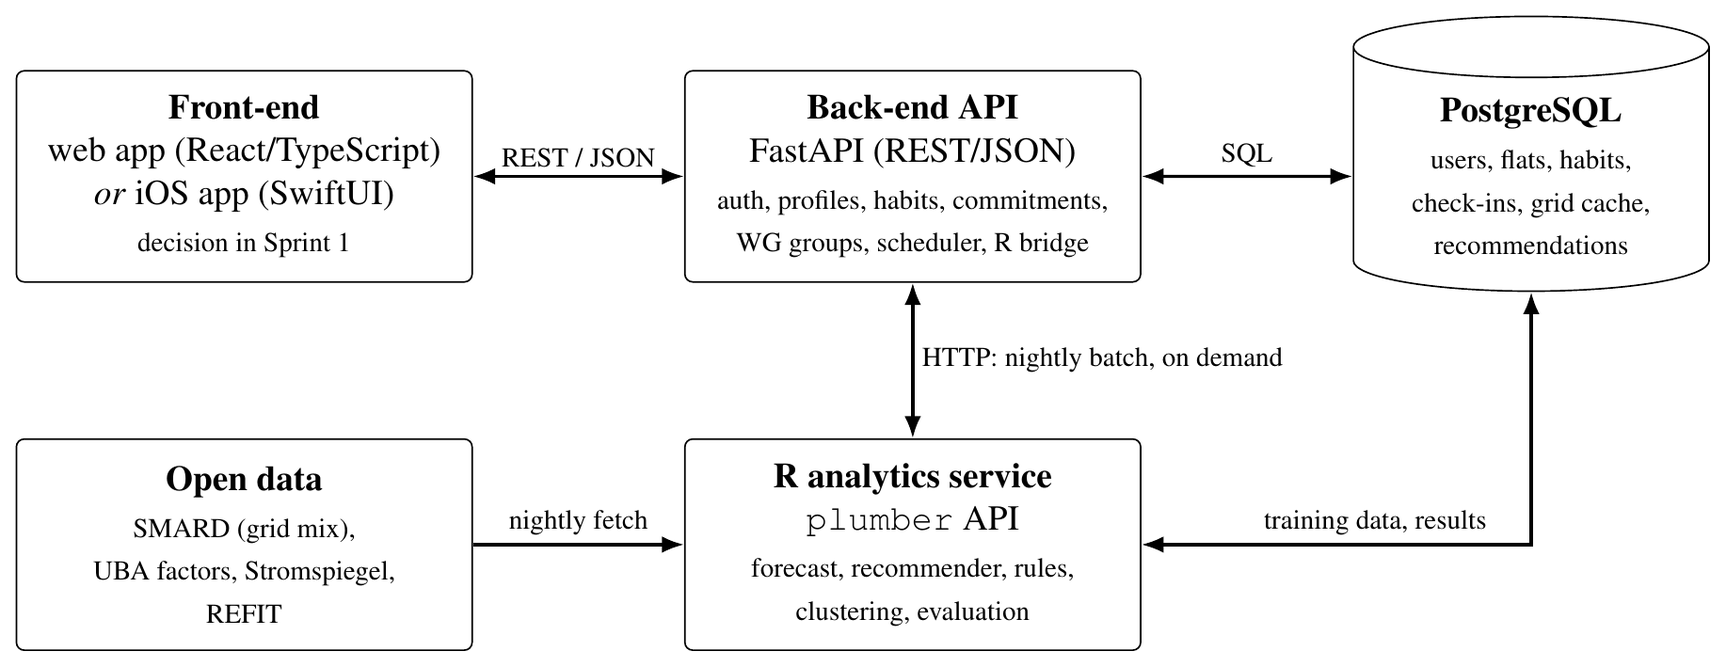
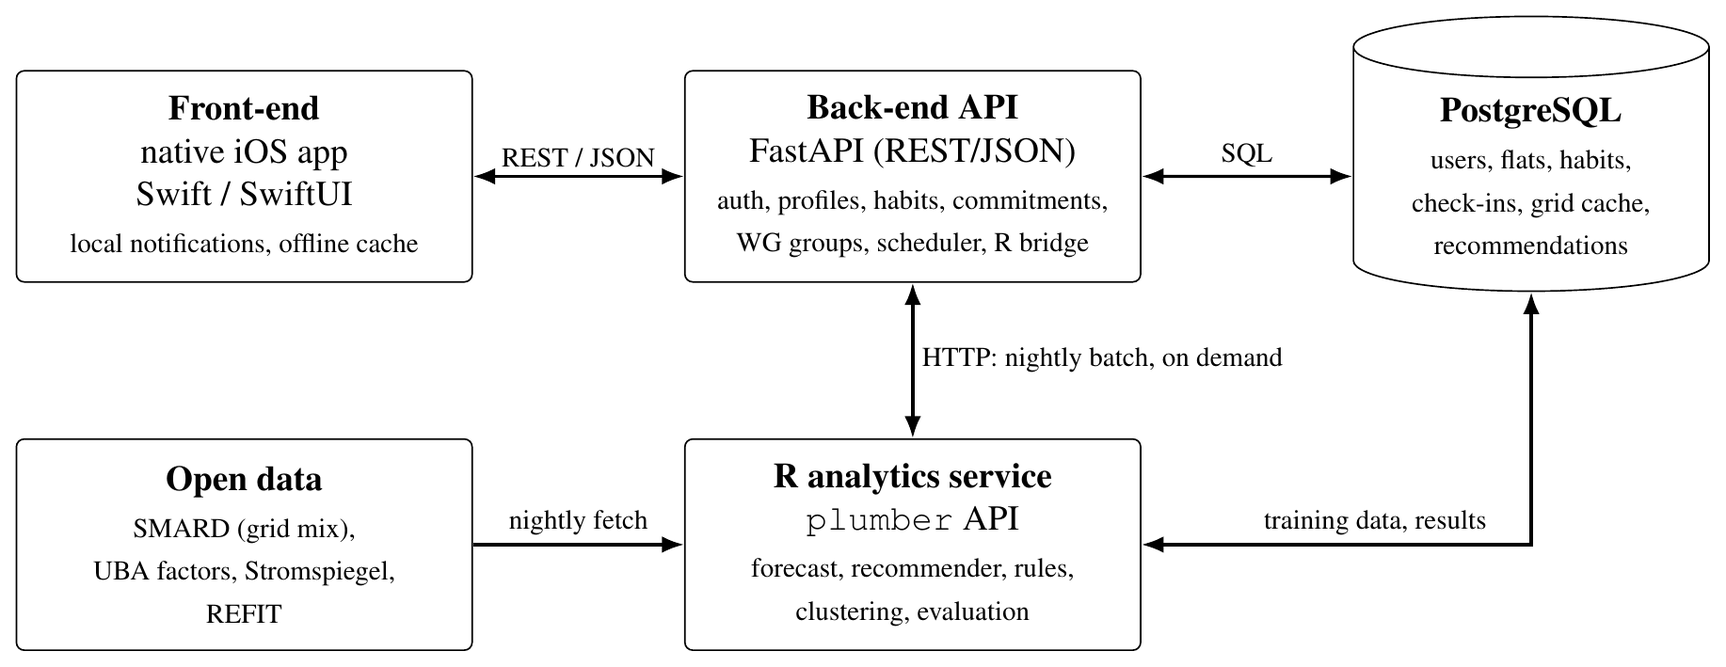
proposal updated

Changed region(s): [[0.0311, 0.1551, 0.2486, 0.3103], [0.0311, 0.3413, 0.2486, 0.4034]]

diff --git a/documentation/project-proposal/index.tex b/documentation/project-proposal/index.tex
@@ -6,10 +6,8 @@
 %%  Compile with pdflatex (IEEEtran class, included in Overleaf / TeX Live).
 %%  The diagrams are PNGs in figures/; edit the matching figures/*.tex
 %%  source and run ./build-figures.sh to re-render them.
-%%  Everything printed in RED is a placeholder:
-%%     \ph{...}                 short placeholders (names, matriculation numbers, links)
-%%     \begin{phsection}...     the whole section reserved for the ML / data-mining models
-%%  Search the file for "\ph{" and "phsection" to find them all.
+%%  \ph{...} prints a RED placeholder for anything still to be filled in
+%%  (none at the moment). Search the file for "\ph{" to find them.
 %% =====================================================================
 \documentclass[conference]{IEEEtran}
 \usepackage[utf8]{inputenc}
@@ -24,13 +22,6 @@
 
 % ---------- placeholders -------------------------------------------------
 \newcommand{\ph}[1]{\textcolor{red}{\textbf{[#1]}}}
-% A whole placeholder section: red rules above and below, dark-red text.
-% (Breakable across columns, unlike a framed box.)
-\newenvironment{phsection}[1]{%
-  \par\noindent\textcolor{red}{\rule{\columnwidth}{0.8pt}}\par\smallskip
-  \noindent\textbf{\textcolor{red}{PLACEHOLDER -- #1}}\par\smallskip
-  \color{red!55!black}}{%
-  \par\smallskip\noindent\textcolor{red}{\rule{\columnwidth}{0.8pt}}\par}
 % ---------- small helpers ------------------------------------------------
 \newcommand{\COtwo}{CO$_2$}
 \newcommand{\pkg}[1]{\texttt{#1}}
@@ -56,7 +47,7 @@ Supervisor: Prof.\ Dr.\ Christina Andersson}
 \maketitle
 
 \begin{abstract}
-This proposal outlines the design and development plan for \emph{Home Energy Coach}, a Personalized Green Habit Recommender developed as part of the High Integrity Systems Project at Frankfurt University of Applied Sciences (WS~2026/27). The application targets students and renters in shared flats (WGs), who cannot change their building's insulation or heating system but can change their daily habits. Users complete a short energy profile, receive a ranked feed of habits that fit their flat and schedule, commit to one small goal at a time and are prompted at the right moment. The signature feature is the \emph{Green Hours planner}: using live generation data of the German electricity market from the Bundesnetzagentur's SMARD platform, it tells each user the lowest-\COtwo{} hours for laundry, dishwasher and charging, fitted to the hours they are actually at home. A FastAPI back-end coordinates the application logic and delegates all data analysis -- the hourly \COtwo{} forecast, recommendation ranking, association-rule mining, user clustering and the evaluation of nudges -- to an R analytics service exposed through the \pkg{plumber} package. User data is persisted in PostgreSQL and the whole system is containerized with Docker. In line with the course's green software requirement, the energy and resource consumption of the application itself is measured from the first prototype on, reduced in every sprint and shown to users in the app. The project follows Scrum over five sprints with rotating Scrum Master and Product Owner roles, and all progress is tracked in Jira.
+This proposal outlines the design and development plan for \emph{Home Energy Coach}, a Personalized Green Habit Recommender developed as part of the High Integrity Systems Project at Frankfurt University of Applied Sciences (WS~2026/27). The application targets students and renters in shared flats (WGs), who cannot change their building's insulation or heating system but can change their daily habits. Users complete a short energy profile, receive a ranked feed of habits that fit their flat and schedule, commit to one small goal at a time and are prompted at the right moment. The signature feature is the \emph{Green Hours planner}: using live generation data of the German electricity market from the Bundesnetzagentur's SMARD platform, it tells each user the lowest-\COtwo{} hours for laundry, dishwasher and charging, fitted to the hours they are actually at home. The native iOS app (SwiftUI) talks to a FastAPI back-end, which coordinates the application logic and delegates all data analysis -- the hourly \COtwo{} forecast, recommendation ranking, association-rule mining, user clustering and the evaluation of nudges -- to an R analytics service exposed through the \pkg{plumber} package. User data is persisted in PostgreSQL and the server side is containerised with Docker. In line with the course's green software requirement, the energy and resource consumption of the application itself is measured from the first prototype on, reduced in every sprint and shown to users in the app. The project follows Scrum over five sprints with rotating Scrum Master and Product Owner roles, and all progress is tracked in Jira.
 \end{abstract}
 
 \section{Introduction}
@@ -66,11 +57,11 @@ The timing aspect is what makes this project more than a list of tips. The \COtw
 
 Information alone, however, rarely changes behaviour; the gap between good intentions and action is well documented. Home Energy Coach is therefore designed as a habit-building system rather than an information app. It follows the Fogg Behavior Model, in which a behaviour occurs only when motivation, ability and a prompt come together at the same moment~\cite{fogg2009}, and the habit loop of cue, routine and reward. Users commit to one small, concrete goal at a time -- an implementation intention of the form ``when X, I do Y''~\cite{gollwitzer1999} -- are prompted exactly when the green window opens, and see the saved \COtwo{} and their streak immediately afterwards. Behaviour that is repeated in the same context for several weeks becomes automatic~\cite{lally2010}; the app then fades its prompts and proposes the next habit.
 
-This proposal describes the planned development of Home Energy Coach as the team's realisation of the course topic \emph{Personalized Green Habit Recommender}. The system consists of a front-end (web or native iOS, see Section~\ref{sec:frontend}), a FastAPI back-end and an R analytics service that performs all data analysis and data mining tasks and is accessed through the \pkg{plumber} package. Development follows Scrum over five sprints, with all work tracked in Jira and source code managed collaboratively on GitHub. A particular advantage of the chosen domain is that the team itself belongs to the target group, so the app can be piloted on its own developers in the final sprint.
+This proposal describes the planned development of Home Energy Coach as the team's realisation of the course topic \emph{Personalized Green Habit Recommender}. The system consists of a native iOS app built with SwiftUI (Section~\ref{sec:frontend}), a FastAPI back-end and an R analytics service that performs all data analysis and data mining tasks and is accessed through the \pkg{plumber} package. Development follows Scrum over five sprints, with all work tracked in Jira and source code managed collaboratively on GitHub. A particular advantage of the chosen domain is that the team itself belongs to the target group, so the app can be piloted on its own developers in the final sprint.
 
 \subsection{Objectives}
 \begin{enumerate}
-\item Build a platform that recommends personalized home-energy habits to students and renters and prompts them at the right moment, including the greenest hours of the day derived from live German grid data.
+\item Build a platform that recommends personalised home-energy habits to students and renters and prompts them at the right moment, including the greenest hours of the day derived from live German grid data.
 \item Use R~\cite{rcore} for all data analysis and data mining tasks: the hourly \COtwo{} forecast, the recommendation ranking, association rules, clustering and the evaluation of nudges.
 \item Deliver at least eight distinct user interfaces beyond standard CRUD and authentication screens; eleven are planned (Section~\ref{sec:ui}).
 \item Measure the energy and resource consumption of the application itself from the first prototype on, and reduce it in every subsequent sprint.
@@ -116,13 +107,19 @@ The aim of the project is to turn public energy data and a short user profile in
 \item \textbf{The app's own footprint.} An app that nudges people to save energy while wasting energy on its own servers would contradict its purpose. Its consumption has to be measured and reduced as part of the project.
 \end{itemize}
 
+\subsection{Scope}
+\label{sec:scope}
+\textbf{In scope.} A native iOS app with the eleven screens of Section~\ref{sec:ui}; a FastAPI back-end with PostgreSQL; an R analytics service with the pipelines of Section~\ref{sec:ml}; the Green Hours planner for the German electricity grid, based on SMARD data; a catalogue of 22 home-energy habits covering heating, ventilation, hot water, appliances and standby; WG groups, agreements and challenges; the measurement and reduction of the app's own footprint; and a two-week pilot with the team in Sprint~5.
+
+\textbf{Out of scope.} Android and web clients; automatic control of appliances, smart plugs or thermostats; automatic integration of smart meters or utility accounts (meter readings are entered manually); electricity grids outside Germany; other areas of the course topic such as transport, food and shopping habits; tariff switching and payments; and a public App Store release -- the app reaches pilot users through TestFlight only. These limits keep the project within the available 1\,800 team hours; an Android client and smart-plug integration are noted as future work.
+
 \subsection{Example Scenario}
 Lena's laundry illustrates the intended five-week path from awareness to habit. In week~0 the onboarding quiz tells her that her WG's laundry causes roughly 4\,kg \COtwo{} per month. In week~1 she commits to a single small goal: one load in green hours on Saturday. On Saturday at 11:30 the app alerts her that a green window opens from 12:00 to 15:00; she starts the machine at noon and sees $-0.4$\,kg \COtwo{}, a streak of one and her WG at rank~2 in the challenge. In weeks 2--4 the goal grows and her flatmates join. From week~5 she runs the machine in green hours without being asked; the prompts fade and the app proposes the next habit, lowering the thermostat by 1\,\textdegree C. All figures are illustrative; the real ones come from SMARD and the user's profile.
 
 \section{Methodology}
 
 \subsection{Development Process}
-The project follows the Scrum framework and is divided into the five sprints prescribed by the course: four two-week sprints and a final three-week sprint, starting on 26~October 2026 and ending with the final delivery on 25~January 2027 (Table~\ref{tab:sprints}). The practical classes in the first week of each sprint are used for cumulative project work; in the second week the team presents a summary of the completed work. In addition, the team meets the supervisor in the weekly online project meeting. Every sprint contains Sprint Planning, daily stand-ups, a Sprint Review and a Sprint Retrospective; evidence of all four is documented on the Jira board. The course corresponds to 10~ECTS, i.e.\ about 300 working hours per member or roughly 1\,500 team hours over the 13 project weeks, which the sprint backlogs are sized against.
+The project follows the Scrum framework and is divided into the five sprints prescribed by the course: four two-week sprints and a final three-week sprint, starting on 26~October 2026 and ending with the final delivery on 25~January 2027 (Table~\ref{tab:sprints}). The practical classes in the first week of each sprint are used for cumulative project work; in the second week the team presents a summary of the completed work. In addition, the team meets the supervisor in the weekly online project meeting. Every sprint contains Sprint Planning, daily stand-ups, a Sprint Review and a Sprint Retrospective; evidence of all four is documented on the Jira board. The course corresponds to 10~ECTS, i.e.\ about 300 working hours per member or roughly 1\,800 team hours for the six members over the 13 project weeks, which the sprint backlogs are sized against.
 
 \begin{table}[!t]
 \caption{Sprint Timeline}
@@ -150,22 +147,51 @@ All tasks are tracked in Jira with the boards Product Backlog, To Do / In Progre
   \href{https://github.com/Asifnewaz/Personalized_Green_habit_Recommender}{\nolinkurl{github.com/Asifnewaz/Personalized_Green_habit_Recommender}}
 \end{itemize}
 
-The Scrum Master (Team Captain) and the Product Owner rotate every sprint as shown in Table~\ref{tab:roles}. With five members and five sprints every member holds each role exactly once, and nobody holds both roles in the same sprint. The Product Owner maintains and prioritises the product backlog and decides what the sprint delivers; the Scrum Master facilitates the Scrum events, keeps the board up to date and removes impediments.
+The Scrum Master (Team Captain) and the Product Owner rotate as shown in Table~\ref{tab:roles}. Because the team has six members but the course has only five sprints, the three-week Sprint~5 is split into two role periods, 5a and 5b, of about ten days each. In this way every member holds each role exactly once, and nobody holds both roles in the same period. The split of Sprint~5 is subject to confirmation by the supervisor. The Product Owner maintains and prioritises the product backlog and decides what the sprint delivers; the Scrum Master facilitates the Scrum events, keeps the board up to date and removes impediments.
 
 \begin{table}[!t]
 \caption{Rotation of the Scrum Roles}
 \label{tab:roles}
 \centering
-\footnotesize
-\begin{tabular}{@{}cll@{}}
+\scriptsize
+\setlength{\tabcolsep}{4pt}
+\begin{tabular}{@{}clll@{}}
 \toprule
-Sprint & Scrum Master & Product Owner \\
+Sprint & Dates & Scrum Master & Product Owner \\
 \midrule
-1 & \ph{Member 1} & \ph{Member 2} \\
-2 & \ph{Member 2} & \ph{Member 3} \\
-3 & \ph{Member 3} & \ph{Member 4} \\
-4 & \ph{Member 4} & \ph{Member 5} \\
-5 & \ph{Member 5} & \ph{Member 1} \\
+1  & 26 Oct -- 6 Nov  & Mazba Uddin              & Asif Newaz \\
+2  & 9 -- 20 Nov      & Madhusudan Ambulkar      & Muhammad Saad Zafar \\
+3  & 23 Nov -- 4 Dec  & Md.\ Rabiul Hasan Tanvir & Nazmul Alam \\
+4  & 7 -- 18 Dec      & Nazmul Alam              & Madhusudan Ambulkar \\
+5a & 4 -- 14 Jan      & Muhammad Saad Zafar      & Mazba Uddin \\
+5b & 15 -- 25 Jan     & Asif Newaz               & Md.\ Rabiul Hasan Tanvir \\
+\bottomrule
+\end{tabular}
+\end{table}
+
+\subsection{Team Responsibilities}
+\label{sec:responsibilities}
+Besides the rotating Scrum roles, the work is divided into technical and organisational areas (Table~\ref{tab:resp}). An area owner is accountable for the quality and timely delivery of the area and is the first point of contact for it, but does not do all of its work alone. A member can own or contribute to several areas, and an area can have several owners; the R analytics, the largest and most specialised area, has at least two, so that the knowledge does not depend on a single person. Every member writes code and reviews other members' pull requests. Members are listed by surname; the assignment is also recorded in the team contract in Jira.
+
+\begin{table}[!t]
+\caption{Areas of Responsibility}
+\label{tab:resp}
+\centering
+\footnotesize
+\setlength{\tabcolsep}{3pt}
+\begin{tabular}{@{}L{1.75cm}L{4.45cm}L{1.9cm}@{}}
+\toprule
+Area & Main responsibilities & Members \\
+\midrule
+R analytics & SMARD pipeline and Green Hours forecast, recommender, association rules, clustering, evaluation; \pkg{testthat} tests & Ambulkar, Tanvir \\
+Back-end and database & FastAPI services, API contract, authentication, PostgreSQL schema, scheduler, R bridge; \pkg{pytest} tests & Uddin, Zafar \\
+iOS app & SwiftUI screens, local and push notifications, offline cache, accessibility; XCTest and XCUITest & Newaz \\
+UX and design & Personas, scenarios, survey, Figma wireframes and mockups, usability tests in the pilot & Newaz, Tanvir \\
+Architecture and modelling & Architecture document and its justification; use case, class, activity and sequence diagrams & Zafar, Newaz, Ambulkar \\
+Data and synthetic users & Open-data downloads (UBA, Stromspiegel, REFIT), habit catalogue figures, synthetic users, survey analysis & Ambulkar, Alam \\
+Green software & Baseline and per-sprint measurements, optimisation backlog, data for the ``How green is this app?'' screen & Uddin, Alam \\
+DevOps and quality & Docker Compose, GitHub Actions, test strategy, code-review rules, Definition of Done & Zafar, Newaz \\
+Documentation & Proposal, user documentation, final report, Artifacts board in Jira & Alam, Tanvir \\
 \bottomrule
 \end{tabular}
 \end{table}
@@ -210,7 +236,7 @@ All preprocessing is implemented in R (\pkg{dplyr}, \pkg{tidyr}, \pkg{lubridate}
 
 \subsection{Data Mining and Recommendation Models (R)}
 \label{sec:ml}
-The data processing, modeling pipelines, and execution workflows run in an independent R service connected to the FastAPI back-end through \pkg{plumber}. This analytics pipeline ingests external grid data, generates personalized recommendations, identifies habit connections, segments users, and runs statistical evaluations.
+The data processing, modelling pipelines, and execution workflows run in an independent R service connected to the FastAPI back-end through \pkg{plumber}. This analytics pipeline ingests external grid data, generates personalised recommendations, identifies habit connections, segments users, and runs statistical evaluations.
 
 \begin{enumerate}
     \item \textbf{Green Hours Forecast Pipeline}
@@ -238,17 +264,17 @@ The data processing, modeling pipelines, and execution workflows run in an indep
     \begin{itemize}
         \item \textbf{Model / Algorithm:} $k$-means clustering (with $k$-medoids / \pkg{pam} as an outlier-resistant alternative).
         \item \textbf{Packages Used:} \pkg{stats} (base \texttt{kmeans}), \pkg{cluster} (medoid clustering), and \pkg{factoextra} (silhouette evaluation).
-        \item \textbf{Pipeline:} Normalized user feature vectors are built from daytime home availability, completion rates across habit types, and notification dismissal rates. Users are partitioned into distinct behavioral clusters (e.g., daytime vs.\ weekend savers), with the optimal cluster count determined by silhouette analysis. Centroids help tailor default nudges for newly onboarded users.
+        \item \textbf{Pipeline:} Normalised user feature vectors are built from daytime home availability, completion rates across habit types, and notification dismissal rates. Users are partitioned into distinct behavioural clusters (e.g., daytime vs.\ weekend savers), with the optimal cluster count determined by silhouette analysis. Centroids help tailor default nudges for newly onboarded users.
     \end{itemize}
 
     \item \textbf{Evaluation and Nudge Testing Pipeline}
     \begin{itemize}
         \item \textbf{Model / Algorithm:} Cross-validation evaluation metrics (Precision@$k$, Recall@$k$, MAE) and paired hypothesis testing (paired $t$-test / Wilcoxon signed-rank test).
         \item \textbf{Packages Used:} \pkg{recommenderlab} (recommender accuracy benchmarks) and \pkg{stats} (hypothesis tests).
-        \item \textbf{Pipeline:} Recommender accuracy is validated on synthetic and survey data splits using 5-fold cross-validation. To evaluate whether nudges produce lasting habits, reminders are faded after an initial consistency period. Paired tests compare check-in adherence before and after fading to verify that behavior persists without prompts.
+        \item \textbf{Pipeline:} Recommender accuracy is validated on synthetic and survey data splits using 5-fold cross-validation. To evaluate whether nudges produce lasting habits, reminders are faded after an initial consistency period. Paired tests compare check-in adherence before and after fading to verify that behaviour persists without prompts.
     \end{itemize}
 
-    \item \textbf{API Execution and Green Optimization Pipeline}
+    \item \textbf{API Execution and Green Optimisation Pipeline}
     \begin{itemize}
         \item \textbf{Model / Algorithm:} Scheduled batch processing with algorithmic profiling via \pkg{bench} and \pkg{profvis}.
         \item \textbf{Packages Used:} \pkg{plumber} (REST API generation), \pkg{DBI} and \pkg{RPostgres} (database communication), and \pkg{bench} / \pkg{profvis} (performance and green code profiling).
@@ -287,36 +313,42 @@ The 22 habits fall into three types that need three different tools (Table~\ref{
 Nudging raises ethical questions, and the course brief explicitly asks for ethical AI and transparency. Home Energy Coach therefore uses only opt-in nudges: users choose their own commitments, every recommendation carries a ``why this'' explanation, notifications can be muted per habit, and prompts fade automatically once a habit is established. The WG challenge shows the shared score of the flat, not who did what, to avoid pressure between flatmates. No dark patterns -- artificial scarcity, guilt messages, hidden opt-outs -- are used.
 
 \subsection{Testing and Quality Assurance}
-Testing starts as soon as the first components exist in Sprint~3 and covers three levels: \textbf{unit tests} for the R functions (\pkg{testthat}) and the back-end services (\pkg{pytest}), \textbf{integration tests} for the FastAPI--\pkg{plumber} bridge and the SMARD ingestion -- with recorded API responses as fixtures, so that the tests do not depend on the live service -- and \textbf{end-to-end tests} of the main user flows from onboarding through recommendation, commitment and check-in. GitHub Actions runs the test suites on every pull request, and Docker keeps the test environment identical for all members. Sprint~5 adds a pilot: the team members use the app for two weeks, which yields the first real check-in data, usability feedback and the before/after measurements needed for the evaluation in Section~\ref{sec:ml}.
+Testing starts as soon as the first components exist in Sprint~3 and covers three levels: \textbf{unit tests} for the R functions (\pkg{testthat}), the back-end services (\pkg{pytest}) and the iOS view models (XCTest), \textbf{integration tests} for the FastAPI--\pkg{plumber} bridge and the SMARD ingestion -- with recorded API responses as fixtures, so that the tests do not depend on the live service -- and \textbf{end-to-end tests} of the main user flows from onboarding through recommendation, commitment and check-in, automated with XCUITest on the iOS app. GitHub Actions runs the test suites on every pull request, and Docker keeps the test environment identical for all members. Sprint~5 adds a pilot: the team members use the app for two weeks, which yields the first real check-in data, usability feedback and the before/after measurements needed for the evaluation in Section~\ref{sec:ml}.
 
 \subsection{Green Software Engineering: the App's Own Footprint}
 Evaluating and optimising the application's own greenness is a core grading theme of the course, not an extra. The team follows three steps that correspond to the aspects named in the course brief -- internal baselines, comparison against common practice, algorithmic efficiency and documented design choices -- and draws on the Software Carbon Intensity specification of the Green Software Foundation for the choice of metrics~\cite{gsf-sci}.
 \begin{enumerate}
-\item \textbf{Baseline (Sprint~4).} The first prototype is measured on the client (Lighthouse~\cite{lighthouse} for the web app, the Xcode Energy Gauge for iOS), on the server (CPU time, memory and network bytes per request from Docker statistics and API metrics) and in R (runtime and memory of every analytics job with \pkg{bench} and \pkg{profvis}). The baseline is documented and targets are set for the following sprints.
-\item \textbf{Optimise.} Analytics run as nightly batch jobs instead of per request; SMARD data, the daily green-window forecast and the recommendations are computed once and cached; payloads are kept lean and paginated; notifications are only sent for green windows that match the user's schedule; and algorithmic alternatives for the models in Section~\ref{sec:ml} are compared by runtime and memory as well as by accuracy.
+\item \textbf{Baseline (Sprint~4).} The first prototype is measured on the client (Xcode Energy Gauge and Instruments on an iPhone), on the server (CPU time, memory and network bytes per request from Docker statistics and API metrics) and in R (runtime and memory of every analytics job with \pkg{bench} and \pkg{profvis}). The baseline is documented and targets are set for the following sprints.
+\item \textbf{Optimise.} Analytics run as nightly batch jobs instead of per request; SMARD data, the daily green-window forecast and the recommendations are computed once and cached; payloads are kept lean and paginated; green-window alerts are scheduled locally on the device and only for windows that match the user's schedule; and algorithmic alternatives for the models in Section~\ref{sec:ml} are compared by runtime and memory as well as by accuracy.
 \item \textbf{Prove it.} Every sprint the measurements are repeated, the trend is recorded and shown on the in-app screen ``How green is this app?''. Each design decision and its measured effect is documented in the final report.
 \end{enumerate}
 
 \begin{figure*}[!t]
 \centering
 \includegraphics[width=0.92\textwidth]{figures/architecture.png}
-\caption{High-level system architecture: a layered client--server system in which R runs isolated in its own analytics service. All components run as Docker containers.}
+\caption{High-level system architecture: a layered client--server system in which R runs isolated in its own analytics service. All server-side components run as Docker containers.}
 \label{fig:arch}
 \end{figure*}
 
 \section{System Architecture}
-The platform uses a \textbf{layered client--server architecture with a separate analytics service} (Fig.~\ref{fig:arch}): a front-end layer, a back-end layer built with FastAPI, an analytics layer in R and a data layer. All communication between components runs over REST endpoints with JSON payloads; the front-end never talks to R directly. This split is deliberate. The course requires R for all analysis tasks, and isolating R in its own service keeps the general-purpose back-end simple, lets the analytics run as scheduled batch jobs -- which is also the most energy-efficient option -- and allows the back-end and the analytics to be developed and tested independently by different team members. The style is easy to justify and document in the architecture deliverable of Sprint~2.
+The platform uses a \textbf{layered client--server architecture with a separate analytics service} (Fig.~\ref{fig:arch}): a front-end layer (the native iOS app), a back-end layer built with FastAPI, an analytics layer in R and a data layer. All communication between components runs over REST endpoints with JSON payloads; the front-end never talks to R directly. This split is deliberate. The course requires R for all analysis tasks, and isolating R in its own service keeps the general-purpose back-end simple, lets the analytics run as scheduled batch jobs -- which is also the most energy-efficient option -- and allows the back-end and the analytics to be developed and tested independently by different team members. The style is easy to justify and document in the architecture deliverable of Sprint~2.
 
 \subsection{Frontend Layer}
 \label{sec:frontend}
-The choice between a web application (TypeScript with React~\cite{react}, installable as a progressive web app) and a native iOS application (SwiftUI~\cite{swiftui}) is deliberately left open in this proposal and is taken in Sprint~1 against four criteria: the team's existing skills, support for push notifications (native on iOS; web push requires the installed web app), the available energy measurement tooling (Lighthouse versus the Xcode Energy Gauge), and device reach -- a web app runs on every flatmate's phone regardless of platform. The decision is documented in Jira and reflected in the architecture document of Sprint~2. In both cases the front-end contains the eleven screens of Section~\ref{sec:ui} and communicates only with the back-end API, whose contract is defined first so that back-end development does not depend on the client decision.
+The front-end is a native iOS application written in Swift with SwiftUI~\cite{swiftui}. The team compared a web application (React, installable as a progressive web app) with a native iOS app against four criteria -- the team's existing skills, notifications, energy measurement tooling and device reach -- and chose iOS for three reasons:
+\begin{itemize}
+\item \textbf{Prompts are the core mechanism.} The Green Hours planner only works if the alert arrives at the right moment. iOS supports scheduled local notifications natively: after the daily forecast has been fetched, the app schedules the user's green-window alerts on the device, so the server does not have to send a push message for every window.
+\item \textbf{Measurable footprint.} The Xcode Energy Gauge and Instruments break the energy impact of the app down into CPU, network, GPU and other overhead, which feeds directly into the green software evaluation.
+\item \textbf{Existing skills.} Part of the team develops iOS apps professionally, which lowers the risk of the largest user-interface workload in the project.
+\end{itemize}
+The main drawback is reach: flatmates with Android phones cannot use the app in this project. Because the app communicates only with the back-end's REST API, whose contract is defined first, a web or Android client can be added later without changes on the server side. The app contains the eleven screens of Section~\ref{sec:ui}, caches the current forecast and recommendations so that it also works offline, and is distributed to the pilot users through TestFlight~\cite{testflight}.
 
 \subsection{Backend Layer}
 Implemented with FastAPI~\cite{fastapi}. Key components:
 \begin{itemize}
 \item \textbf{API gateway} -- routing, JWT authentication, request validation.
 \item \textbf{Domain services} -- user profiles and flats, the habit catalogue, commitments and check-ins, WG groups, agreements and challenges, notifications.
-\item \textbf{Scheduler} -- triggers the nightly SMARD fetch, forecast and recommendation refresh in the R service and sends green-window alerts that match each user's schedule.
+\item \textbf{Scheduler} -- triggers the nightly SMARD fetch, forecast and recommendation refresh in the R service. Green-window alerts are scheduled on the device itself, so the server sends push notifications only for events such as WG challenge updates.
 \item \textbf{R bridge} -- an HTTP client that calls the \pkg{plumber} endpoints; results are stored in PostgreSQL so that the API serves cached results instead of recomputing them per request.
 \end{itemize}
 
@@ -330,19 +362,18 @@ The R analytics service exposes its functions through \pkg{plumber}~\cite{plumbe
 \item \textbf{Privacy} -- the system stores minimal personal data (e-mail address and display name), uses pseudonymous IDs in the analytics service and offers export and deletion of all personal data in the app.
 \end{itemize}
 
-\subsection{Containerization and Deployment}
-The server side is containerized with Docker~\cite{docker} and orchestrated with Docker Compose. Each major component runs as an isolated service:
+\subsection{Containerisation and Deployment}
+The server side is containerised with Docker~\cite{docker} and orchestrated with Docker Compose. Each major component runs as an isolated service:
 \begin{itemize}
-\item \texttt{frontend} -- Node-based build of the web application served by nginx (for a native iOS app this service is omitted and the app runs on the device).
 \item \texttt{backend} -- Python container running FastAPI with Uvicorn.
 \item \texttt{r\_service} -- R container exposing the \pkg{plumber} endpoints.
 \item \texttt{scheduler} -- triggers the nightly jobs and the notification run.
 \item \texttt{postgres} -- persistent relational storage.
 \end{itemize}
-A single \texttt{docker-compose.yml} at the repository root defines all services, networks and volumes, so that every member and the instructor can start the full stack with one command. GitHub Actions builds the images and runs the tests on every pull request.
+A single \texttt{docker-compose.yml} at the repository root defines all services, networks and volumes, so that every member and the instructor can start the full stack with one command. GitHub Actions builds the images and runs the tests on every pull request. The iOS app is not containerised: it is built and tested with Xcode on a macOS runner and distributed through TestFlight.
 
 \section{Technology Stack}
-Table~\ref{tab:stack} summarises the technologies per layer. The stack deliberately mirrors the architecture: one general-purpose language for the API, R for everything analytical, and a relational database as the single source of truth. All tools are free for students, run on macOS, Windows and Linux, and are available as Docker images, so that no member depends on a particular machine.
+Table~\ref{tab:stack} summarises the technologies per layer. The stack deliberately mirrors the architecture: one general-purpose language for the API, R for everything analytical, and a relational database as the single source of truth. All server-side tools are free, run on macOS, Windows and Linux and are available as Docker images, so that back-end and R work does not depend on a particular machine. iOS development requires a Mac with Xcode, so the iOS area is assigned to members who have one.
 
 \begin{table}[!t]
 \caption{Technology Stack}
@@ -353,7 +384,7 @@ Table~\ref{tab:stack} summarises the technologies per layer. The stack deliberat
 \toprule
 Layer & Technology & Purpose \\
 \midrule
-Front-end & React (TypeScript) \emph{or} SwiftUI & User interface; decision in Sprint~1 \\
+Front-end & Swift, SwiftUI (native iOS) & User interface, local notifications \\
 Back-end & Python (FastAPI) & REST API, scheduling, R bridge \\
 Analysis & R (\pkg{plumber}) & Forecast, recommender, clustering, evaluation \\
 Database & PostgreSQL & Persistent storage, caches \\
@@ -383,6 +414,31 @@ Eleven interfaces are planned beyond basic CRUD and authentication, three more t
 \end{enumerate}
 Wireframes are developed in Figma in Sprint~2 and refined into mockups in Sprint~4.
 
+\section{Success Criteria}
+\label{sec:success}
+The project is successful if the criteria in Table~\ref{tab:success} are met at the final delivery. The quantitative targets are initial values: they are reviewed once the first data and the green baseline are available in Sprint~4, and any change is documented in Jira. Because the pilot involves only the six team members, its results are indicative rather than statistically conclusive.
+
+\begin{table}[!t]
+\caption{Success Criteria}
+\label{tab:success}
+\centering
+\footnotesize
+\begin{tabular}{@{}L{1.7cm}L{6.55cm}@{}}
+\toprule
+Area & Criterion and target \\
+\midrule
+Functionality & At least 8 of the 11 planned screens work end-to-end against the live back-end; target: all 11 \\
+R analytics & Forecast, recommendation ranking, association rules, clustering and evaluation all run in R in the nightly batch, each covered by \pkg{testthat} tests \\
+Green Hours & In a back-test over at least four weeks of SMARD data, the forecast greenest 3-hour window overlaps the actual greenest window on at least 70\,\% of days \\
+Recommender & In 5-fold cross-validation on synthetic and survey data, the personalised ranking reaches a higher Precision@5 than a popularity baseline \\
+Habit formation & In the pilot, at least two thirds of the participants keep a committed habit with at least 70\,\% check-in adherence over two weeks; adherence after the prompts fade is reported with a paired test \\
+Usability & Mean System Usability Scale (SUS) score of at least 68, the commonly used average, in the pilot~\cite{sus} \\
+Green software & Median server CPU time and data transferred per user session at least 30\,\% lower in the final version than at the Sprint~4 baseline; no model computed per request; ``Low'' energy impact of the iOS app in a typical session \\
+Process & Every member has been Scrum Master once and Product Owner once; planning, stand-up, review and retrospective evidence in Jira for every sprint; all merged code meets the Definition of Done \\
+\bottomrule
+\end{tabular}
+\end{table}
+
 \section{Risks and Mitigation}
 Table~\ref{tab:risks} lists the main risks identified during topic selection and how the team intends to handle them. The risk register is kept in Jira and reviewed in every Sprint Retrospective.
 
@@ -400,7 +456,7 @@ Users cannot measure their own kWh & Estimate from the profile and public statis
 SMARD API changes or downtime & Nightly caching; fallback to the stored dataset; ingestion isolated in one R module \\
 R skills uneven across the team & Two R owners; shared R scripts; pair-programming sessions \\
 Nudges feel manipulative or annoying & User-chosen commitments, mute option, ``why this'' on every tip, prompts fade once a habit is formed \\
-Front-end decision delays development & Decision in Sprint~1 against fixed criteria; API contract defined first so the back-end is independent of the client \\
+iOS-only app excludes flatmates with Android phones & Client-independent REST API defined first, so a web or Android client can be added later; Android support listed as future work \\
 Scope too large for one semester & Eight screens required, eleven planned; the additional screens are the first candidates to be descoped \\
 \bottomrule
 \end{tabular}
@@ -412,11 +468,14 @@ Scope too large for one semester & Eight screens required, eleven planned; the a
 \item Wireframes and mockups (Figma)
 \item System architecture document with justification of the architectural style
 \item UML models: use case, class, activity and sequence diagrams
-\item Working application with back-end, front-end and R analytics service, containerized with Docker
+\item Working native iOS app with back-end and R analytics service; the server side containerised with Docker
 \item Green software evaluation: baseline, optimisations and measured trend of the app's own footprint
 \item Jira project with Scrum evidence, artifacts and team contract, accessible to the instructor
 \item User documentation and final project report
 \end{enumerate}
+
+\section{Conclusion}
+Home Energy Coach addresses a group that most energy advice ignores: students and renters in shared flats, who cannot renovate their building but can change when and how they use energy. The proposal combines public data on the German electricity grid with a short user profile to recommend habits that fit each flat and each schedule, and uses established behaviour-change principles -- small commitments, prompts at the right moment and immediate feedback -- to turn them into routines. The architecture keeps all analysis in a separate R service, as the course requires, and runs it as nightly batch jobs, which also keeps the app's own footprint low. With a defined scope, measurable success criteria, a role rotation for all six members and a pilot on the team itself, the plan fits the five sprints and will give the team concrete evidence at the final delivery on both the effect of the recommender and the greenness of the software.
 
 \begin{thebibliography}{00}
 \bibitem{rcore} R Core Team, \emph{R: A Language and Environment for Statistical Computing}, R Foundation for Statistical Computing, Vienna, Austria, 2025. [Online]. Available: \url{https://www.R-project.org/}
@@ -433,10 +492,10 @@ Scope too large for one semester & Eight screens required, eleven planned; the a
 \bibitem{gsf-sci} Green Software Foundation, ``Software Carbon Intensity (SCI) Specification,'' ISO/IEC 21031:2024. [Online]. Available: \url{https://sci.greensoftware.foundation/}
 \bibitem{plumber} B. Schloerke and J. Allen, \emph{plumber: An API Generator for R}, R package. [Online]. Available: \url{https://www.rplumber.io/}
 \bibitem{fastapi} S. Ram\'irez, ``FastAPI: Modern, fast web framework for building APIs with Python.'' [Online]. Available: \url{https://fastapi.tiangolo.com/}
-\bibitem{react} Meta Platforms, Inc., ``React -- The library for web and native user interfaces.'' [Online]. Available: \url{https://react.dev/}
 \bibitem{swiftui} Apple Inc., ``SwiftUI.'' [Online]. Available: \url{https://developer.apple.com/xcode/swiftui/}
 \bibitem{docker} Docker, Inc., ``Docker: Accelerated container application development.'' [Online]. Available: \url{https://www.docker.com/}
-\bibitem{lighthouse} Google LLC, ``Lighthouse.'' [Online]. Available: \url{https://developer.chrome.com/docs/lighthouse/}
+\bibitem{testflight} Apple Inc., ``TestFlight.'' [Online]. Available: \url{https://developer.apple.com/testflight/}
+\bibitem{sus} J. Brooke, ``SUS: A `quick and dirty' usability scale,'' in \emph{Usability Evaluation in Industry}, P. W. Jordan, B. Thomas, B. A. Weerdmeester, and I. L. McClelland, Eds. London, U.K.: Taylor \& Francis, 1996, pp. 189--194.
 \end{thebibliography}
 
 \end{document}

diff --git a/documentation/project-proposal/figures/architecture.tex b/documentation/project-proposal/figures/architecture.tex
@@ -15,7 +15,7 @@
   arr/.style={-{Latex[length=2mm]}, thick},
   darr/.style={{Latex[length=2mm]}-{Latex[length=2mm]}, thick},
   lbl/.style={font=\scriptsize, inner sep=2pt}]
-\node[box] (fe) {\textbf{Front-end}\\ web app (React/TypeScript)\\ \emph{or} iOS app (SwiftUI)\\[1pt] \scriptsize decision in Sprint 1};
+\node[box] (fe) {\textbf{Front-end}\\ native iOS app\\ Swift / SwiftUI\\[1pt] \scriptsize local notifications, offline cache};
 \node[box, right=of fe] (be) {\textbf{Back-end API}\\ FastAPI (REST/JSON)\\[1pt] \scriptsize auth, profiles, habits, commitments,\\ \scriptsize WG groups, scheduler, R bridge};
 \node[data, right=of be] (db) {\textbf{PostgreSQL}\\[1pt] \scriptsize users, flats, habits,\\ \scriptsize check-ins, grid cache,\\ \scriptsize recommendations};
 \node[box, below=14mm of be] (r) {\textbf{R analytics service}\\ \pkg{plumber} API\\[1pt] \scriptsize forecast, recommender, rules,\\ \scriptsize clustering, evaluation};
